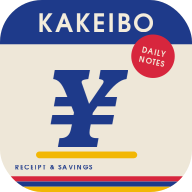
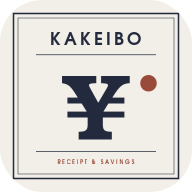
配色を落ち着いたトーンに調整（オフホワイト×スレート×テラコッタ）

diff --git a/apps-script/Index.html b/apps-script/Index.html
@@ -5,35 +5,35 @@
   <meta charset="utf-8">
   <meta name="viewport" content="width=device-width,initial-scale=1,viewport-fit=cover">
   <style>
-    :root { color-scheme: light; --bg:#F3ECDC; --card:#FBF7EE; --ink:#1E3A8A; --navy:#1E3A8A; --red:#D7263D; --yellow:#F2B705; --muted:#6B6F8A; --line:#1E3A8A; }
+    :root { color-scheme: light; --bg:#F2EFE8; --card:#FAF8F3; --ink:#232A3D; --navy:#232A3D; --red:#9A4A3A; --yellow:#E3D9C2; --muted:#7A7F8C; --line:#232A3D; }
     * { box-sizing:border-box; }
     body { margin:0; font-family:"Helvetica Neue",Helvetica,Arial,"Hiragino Sans","Hiragino Kaku Gothic ProN",sans-serif; background:var(--bg); color:#1f2340;
-      background-image:radial-gradient(rgba(30,58,138,.06) 1px, transparent 1px); background-size:14px 14px; }
+      background-image:radial-gradient(rgba(35,42,61,.05) 1px, transparent 1px); background-size:14px 14px; }
     main { max-width:520px; margin:0 auto; padding:18px 16px 60px; }
     h1 { font-size:22px; margin:2px 0 2px; color:var(--navy); letter-spacing:.14em; text-transform:uppercase; font-weight:900; }
-    .sub { margin:0 0 16px; color:var(--red); font-size:11px; letter-spacing:.22em; text-transform:uppercase; font-weight:800; }
-    .card { background:var(--card); border:2px solid var(--navy); border-radius:6px; padding:16px; margin:14px 0; box-shadow:6px 6px 0 var(--navy); }
+    .sub { margin:0 0 16px; color:var(--muted); font-size:11px; letter-spacing:.22em; text-transform:uppercase; font-weight:800; }
+    .card { background:var(--card); border:2px solid var(--navy); border-radius:6px; padding:16px; margin:14px 0; box-shadow:3px 3px 0 var(--navy); }
     .label { display:block; font-size:11px; font-weight:900; margin-bottom:8px; color:var(--navy); letter-spacing:.18em; text-transform:uppercase; }
     .seg { display:grid; grid-template-columns:1fr 1fr; gap:0; border:2px solid var(--navy); border-radius:999px; overflow:hidden; }
     .seg input { display:none; }
     .seg label { text-align:center; padding:12px 10px; font-weight:900; background:var(--card); color:var(--navy); letter-spacing:.1em; }
     .seg label + input + label { border-left:2px solid var(--navy); }
-    .seg input:checked + label { background:var(--navy); color:#F3ECDC; }
+    .seg input:checked + label { background:var(--navy); color:#F2EFE8; }
     input[type="file"], input[type="date"], input[type="number"], input[type="text"] { width:100%; min-width:0; max-width:100%; display:block; -webkit-appearance:none; appearance:none; min-height:48px; border:2px solid var(--navy); border-radius:6px; padding:12px; background:#fff; font-size:16px; color:#1f2340; }
-    input:focus { outline:none; box-shadow:0 0 0 3px var(--yellow); }
-    button { width:100%; border:2px solid var(--navy); border-radius:999px; padding:14px; font-size:15px; font-weight:900; letter-spacing:.12em; background:var(--navy); color:#F3ECDC; cursor:pointer; }
+    input:focus { outline:none; box-shadow:0 0 0 3px var(--yellow); border-color:var(--navy); }
+    button { width:100%; border:2px solid var(--navy); border-radius:999px; padding:14px; font-size:15px; font-weight:900; letter-spacing:.12em; background:var(--navy); color:#F2EFE8; cursor:pointer; }
     button.secondary { background:var(--card); color:var(--navy); }
     button:disabled { opacity:.45; cursor:default; }
     .grid { display:grid; grid-template-columns:1fr; gap:0; }
     .grid > * { min-width:0; }
     .field { margin:12px 0; }
     .status { font-size:13px; line-height:1.55; margin-top:12px; color:var(--muted); }
-    .warn { background:#FFF3C4; border:2px solid var(--yellow); color:#7A5A00; padding:10px 12px; border-radius:6px; font-size:13px; margin-top:10px; }
-    .ok { background:var(--navy); color:#F3ECDC; padding:12px; border-radius:6px; font-size:14px; margin-top:10px; font-weight:800; }
+    .warn { background:#F1EAD8; border:2px solid var(--yellow); color:#6A5A3A; padding:10px 12px; border-radius:6px; font-size:13px; margin-top:10px; }
+    .ok { background:var(--navy); color:#F2EFE8; padding:12px; border-radius:6px; font-size:14px; margin-top:10px; font-weight:800; }
     .tiny { font-size:12px; color:var(--muted); margin-top:8px; }
     .tabs { display:grid; grid-template-columns:1fr 1fr; gap:10px; margin-bottom:6px; }
-    .tabs button { background:var(--card); color:var(--navy); padding:12px; border-radius:6px; box-shadow:4px 4px 0 var(--navy); }
-    .tabs button.active { background:var(--red); border-color:var(--red); color:#F3ECDC; box-shadow:4px 4px 0 var(--navy); }
+    .tabs button { background:var(--card); color:var(--navy); padding:12px; border-radius:6px; box-shadow:3px 3px 0 var(--navy); }
+    .tabs button.active { background:var(--navy); color:#F2EFE8; }
     select { width:100%; border:2px solid var(--navy); border-radius:6px; padding:12px; background:#fff; font-size:16px; color:var(--navy); font-weight:800; }
     .kpi { display:grid; grid-template-columns:1fr 1fr; gap:10px; margin-top:12px; }
     .kpi div { background:#fff; border:2px solid var(--navy); border-radius:6px; padding:12px; }
@@ -43,12 +43,12 @@
     .kpi .big { grid-column:1 / -1; background:var(--yellow); }
     .kpi .big .v { font-size:36px; }
     table { width:100%; border-collapse:collapse; font-size:14px; margin-top:8px; }
-    td { padding:9px 4px; border-bottom:1px dashed rgba(30,58,138,.35); vertical-align:top; }
+    td { padding:9px 4px; border-bottom:1px dashed rgba(35,42,61,.3); vertical-align:top; }
     td.r { text-align:right; white-space:nowrap; font-family:Georgia,serif; font-weight:700; color:var(--navy); }
     .tag { display:inline-block; font-size:10px; padding:2px 8px; border-radius:999px; border:1.5px solid var(--navy); color:var(--navy); margin-right:6px; font-weight:900; letter-spacing:.08em; }
-    .tag.s { background:var(--navy); color:#F3ECDC; }
-    .tag.y { background:var(--red); border-color:var(--red); color:#F3ECDC; }
-    .stripes { height:10px; background:linear-gradient(to bottom, var(--red) 0 34%, var(--navy) 34% 67%, var(--yellow) 67%); margin:0 -16px 14px; }
+    .tag.s { background:var(--navy); color:#F2EFE8; }
+    .tag.y { background:var(--red); border-color:var(--red); color:#F2EFE8; }
+    .stripes { height:2px; background:var(--navy); margin:0 0 16px; }
     .hidden { display:none; }
   </style>
 </head>

diff --git a/index.html b/index.html
@@ -3,7 +3,7 @@
 <head>
   <meta charset="utf-8" />
   <meta name="viewport" content="width=device-width, initial-scale=1, viewport-fit=cover" />
-  <meta name="theme-color" content="#1E3A8A" />
+  <meta name="theme-color" content="#232A3D" />
   <meta name="apple-mobile-web-app-capable" content="yes" />
   <meta name="apple-mobile-web-app-status-bar-style" content="default" />
   <meta name="apple-mobile-web-app-title" content="家計簿" />
@@ -13,8 +13,8 @@
   <style>
     :root{
       color-scheme: light;
-      --bg:#F3ECDC; --panel:#FBF7EE; --ink:#1E3A8A; --muted:#6B6F8A;
-      --line:#1E3A8A; --accent:#1E3A8A; --danger:#D7263D;
+      --bg:#F2EFE8; --panel:#FAF8F3; --ink:#232A3D; --muted:#7A7F8C;
+      --line:#232A3D; --accent:#232A3D; --danger:#9A4A3A;
     }
     *{box-sizing:border-box}
     html,body{margin:0;height:100%;background:var(--bg);font-family:-apple-system,BlinkMacSystemFont,"Segoe UI",sans-serif;color:var(--ink)}
@@ -24,7 +24,7 @@
       flex:0 0 auto;
       padding:calc(10px + env(safe-area-inset-top)) 14px 10px;
       display:flex;align-items:center;justify-content:space-between;gap:10px;
-      background:#F3ECDC;border-bottom:3px solid var(--line);
+      background:#F2EFE8;border-bottom:3px solid var(--line);
       backdrop-filter:blur(12px)
     }
     .brand{display:flex;align-items:center;gap:10px;min-width:0}
@@ -33,13 +33,13 @@
       display:grid;place-items:center;font-size:20px;flex:none
     }
     .brand h1{font-size:16px;line-height:1.2;margin:0;color:var(--ink);letter-spacing:.14em;text-transform:uppercase;font-weight:900}
-    .brand p{font-size:10px;color:var(--danger);margin:3px 0 0;letter-spacing:.18em;font-weight:800;text-transform:uppercase}
+    .brand p{font-size:10px;color:var(--muted);margin:3px 0 0;letter-spacing:.18em;font-weight:800;text-transform:uppercase}
     .settings{
       border:2px solid var(--line);background:var(--panel);color:var(--ink);border-radius:999px;
       padding:8px 12px;font-size:13px;font-weight:900;letter-spacing:.06em
     }
     #frameWrap{flex:1;min-height:0;position:relative;overflow:auto;-webkit-overflow-scrolling:touch}
-    iframe{width:100%;height:100%;border:0;background:#F3ECDC;display:block}
+    iframe{width:100%;height:100%;border:0;background:#F2EFE8;display:block}
     .setup{
       position:absolute;inset:0;display:grid;place-items:center;padding:20px;
       background:var(--bg);overflow:auto
